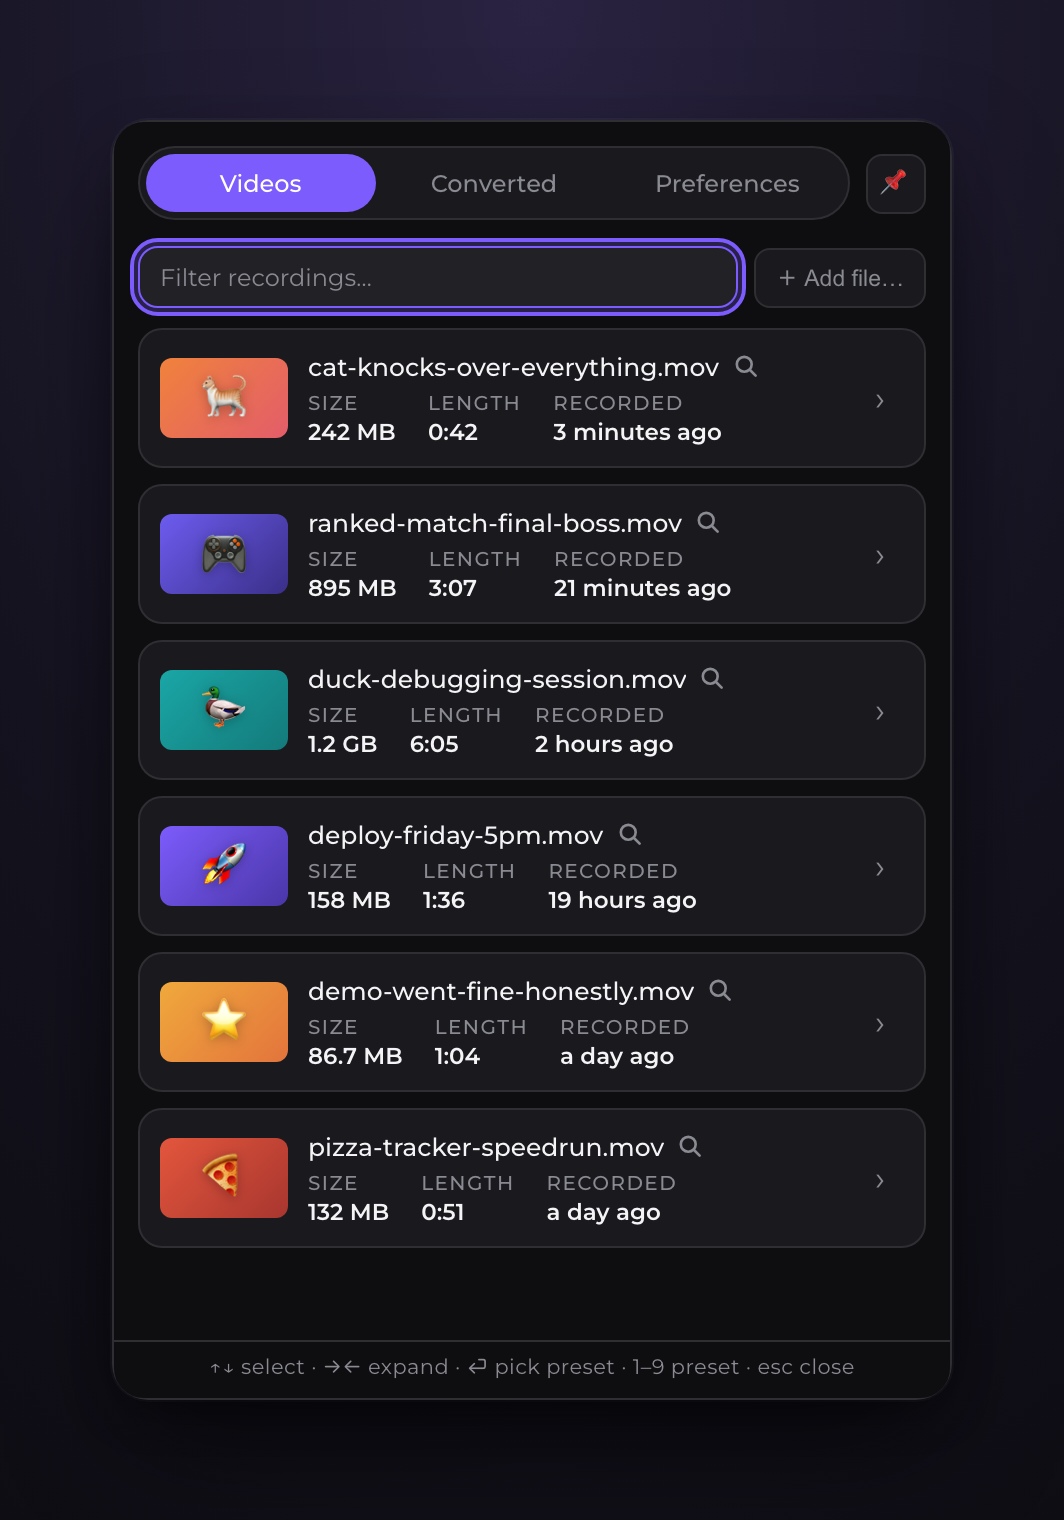
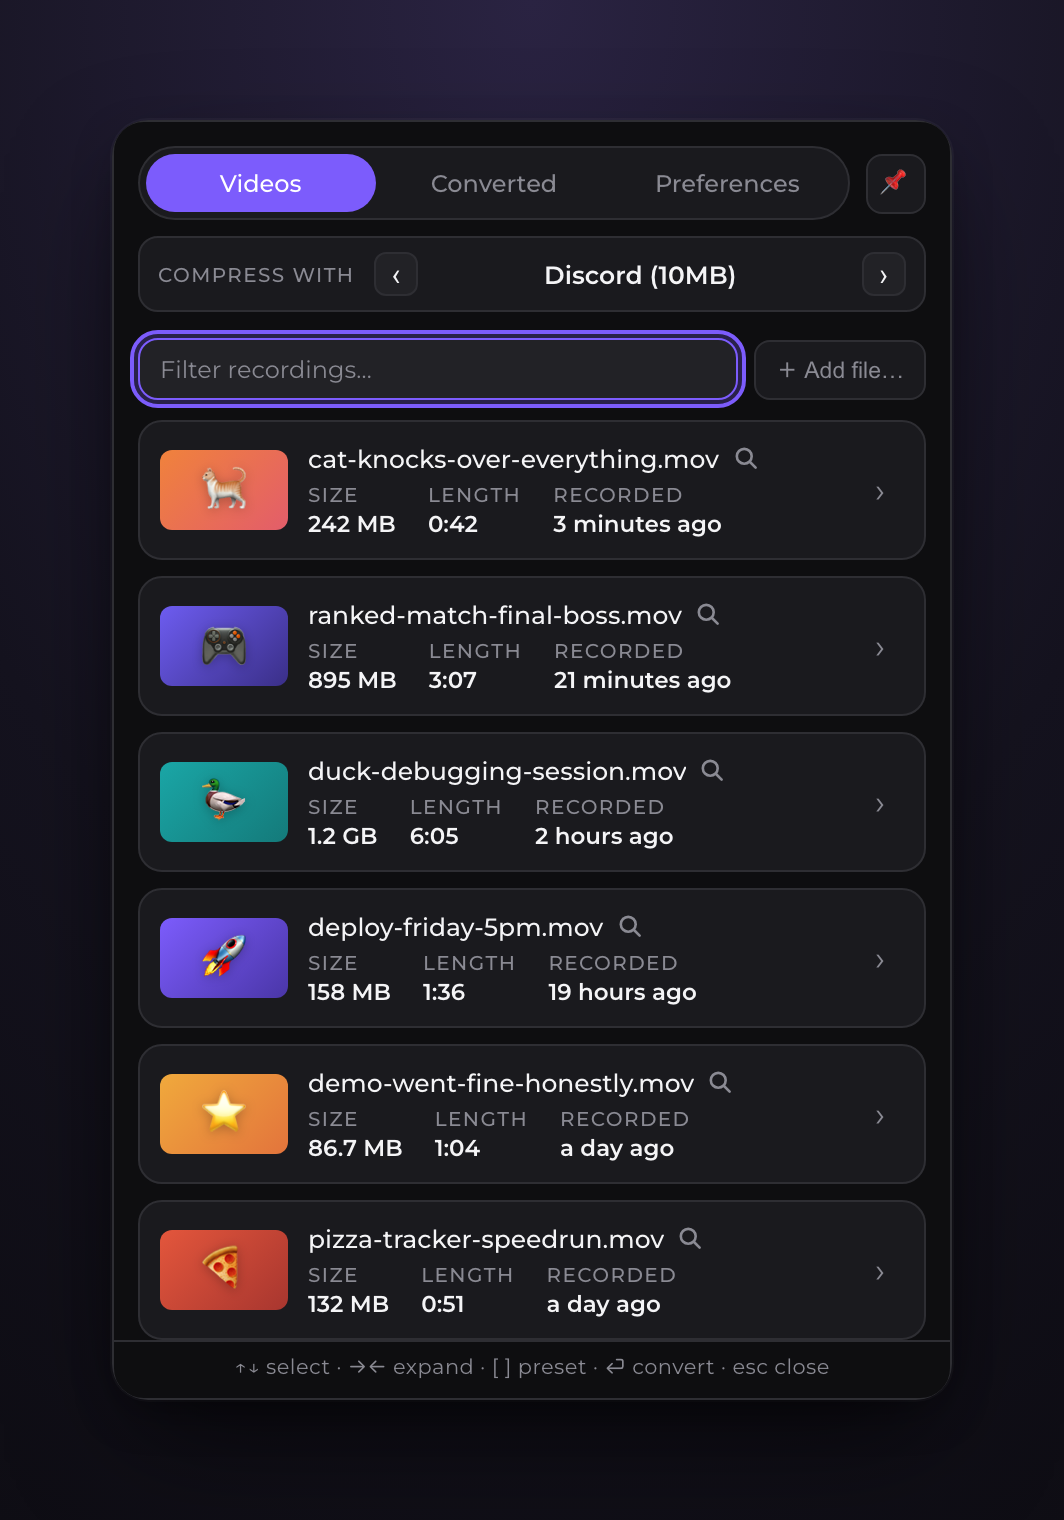
docs: shoot hero panel.png in active-bar layout to match the GIF

diff --git a/docs/capture/stills.ts b/docs/capture/stills.ts
@@ -9,9 +9,10 @@ async function settle(page: Page): Promise<void> {
 }
 
 export async function shootStills(browser: Browser, outDir: string): Promise<void> {
-  // 1) Videos list (hero) — quick-pick layout.
+  // 1) Videos list (hero) — active-bar layout, matching the conversion GIF (the
+  //    persistent "Compress with ‹Discord (10MB)›" bar is visible).
   {
-    const { context, page } = await bootPanel(browser, { layout: "quick-pick", still: true });
+    const { context, page } = await bootPanel(browser, { layout: "active-bar", still: true });
     await settle(page);
     await page.screenshot({ path: join(outDir, "panel.png") });
     await context.close();
